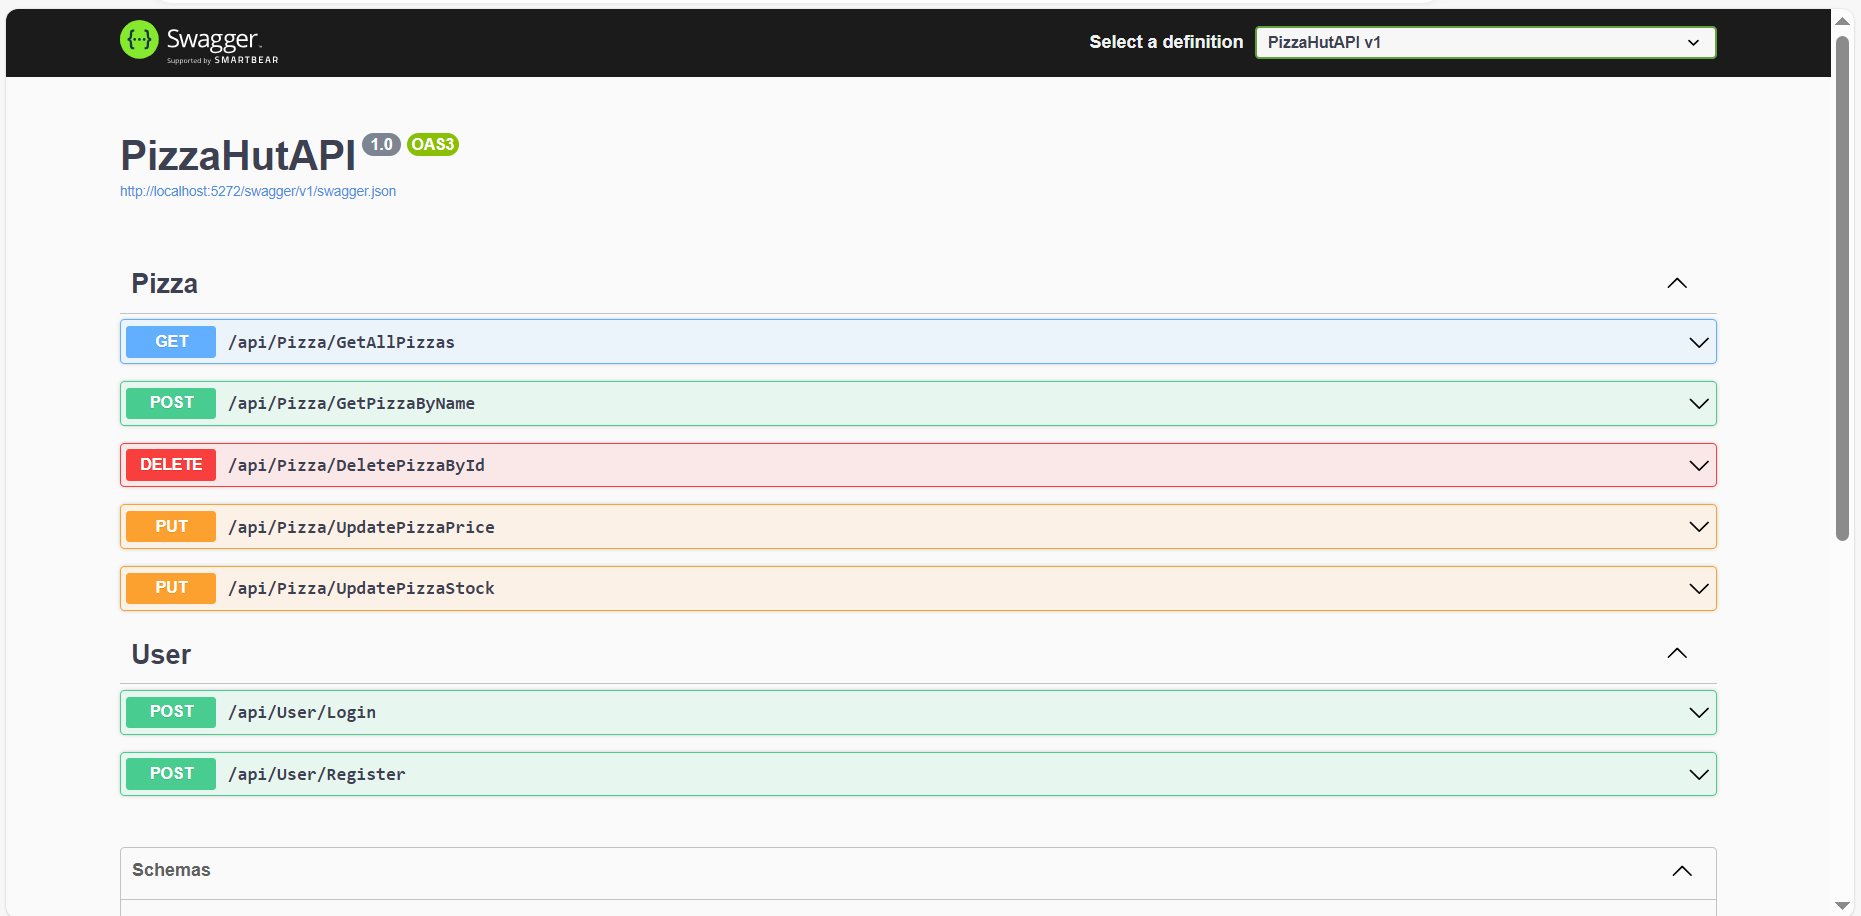
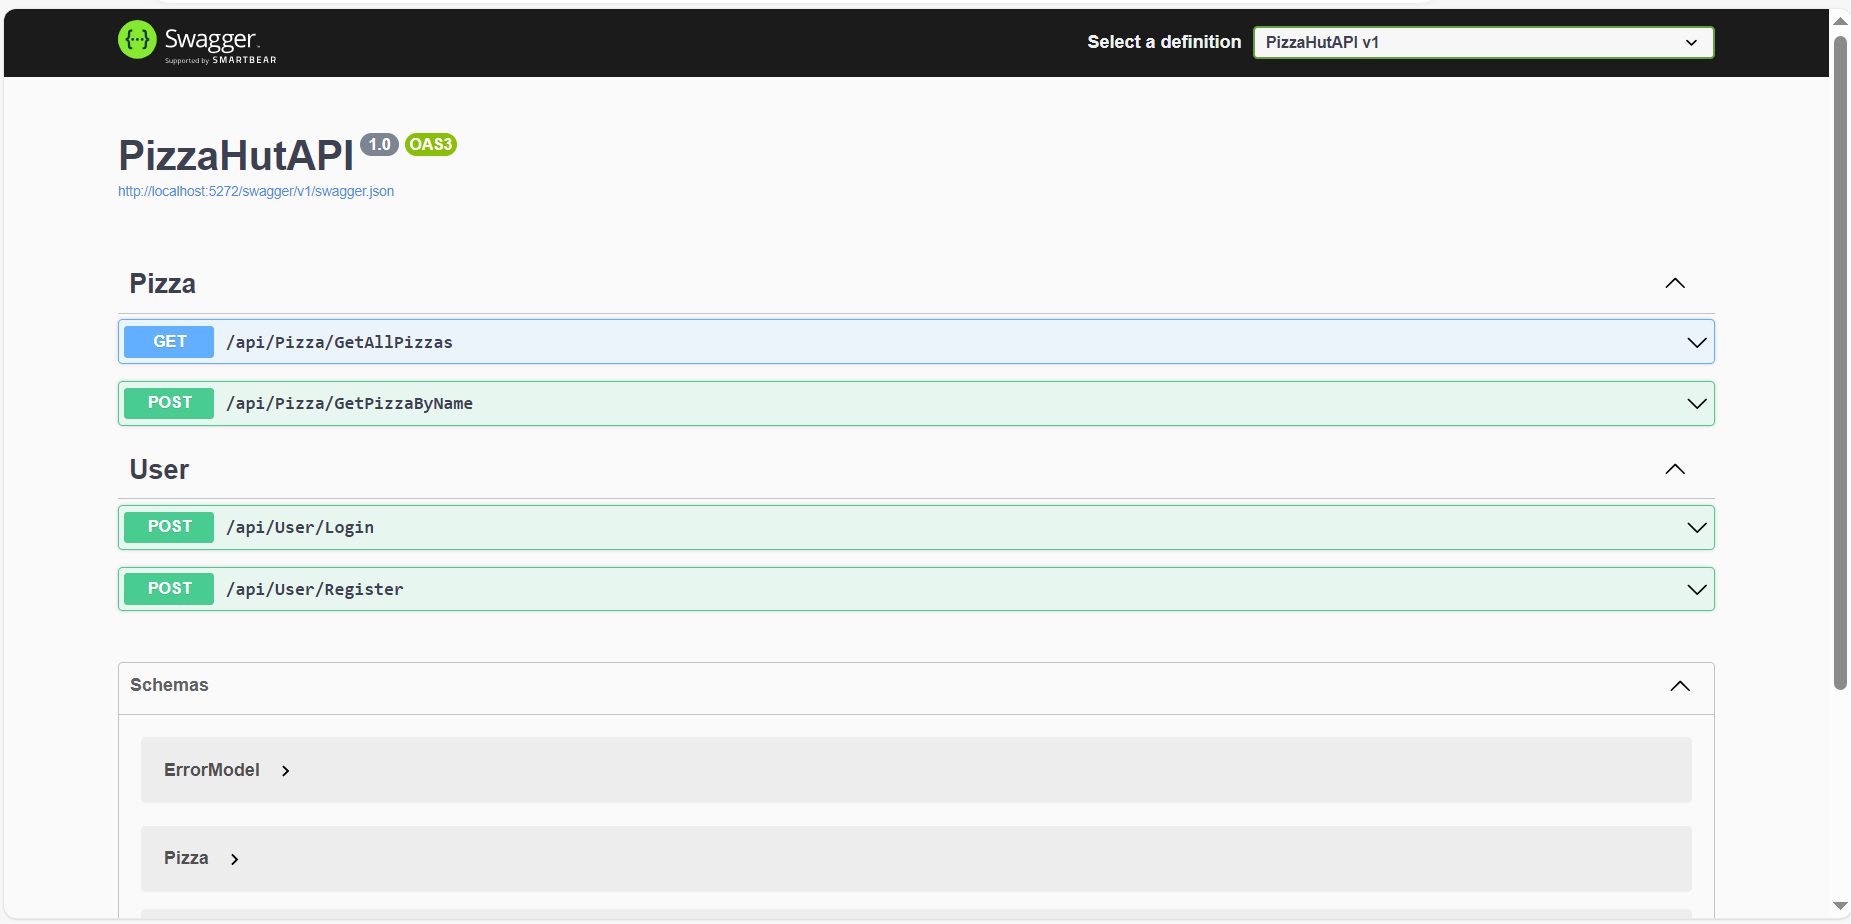
Day 25 PizzaHutAPI Errors Cleared

diff --git a/Day 25/PizzaHutAPISln/PizzaHutAPI/Controllers/PizzaController.cs b/Day 25/PizzaHutAPISln/PizzaHutAPI/Controllers/PizzaController.cs
@@ -51,61 +51,5 @@ namespace PizzaHutAPI.Controllers
             }
         }
 
-        [Route("DeletePizzaById")]
-        [HttpDelete]
-        [ProducesResponseType(typeof(IList<Pizza>), StatusCodes.Status200OK)]
-        [ProducesResponseType(typeof(ErrorModel), StatusCodes.Status404NotFound)]
-        public async Task<ActionResult<Pizza>> Delete([FromBody] int id)
-        {
-            try
-            {
-                var pizzas = await _PizzaHutServices.DeletePizzaById(id);
-                return Ok(pizzas);
-            }
-            catch (NoPizzaFoundException ex)
-            {
-                return NotFound(new ErrorModel(404, ex.Message));
-            }
-        }
-
-        [Route("UpdatePizzaPrice")]
-        [HttpPut]
-        [ProducesResponseType(typeof(IList<Pizza>), StatusCodes.Status200OK)]
-        [ProducesResponseType(typeof(ErrorModel), StatusCodes.Status404NotFound)]
-        public async Task<ActionResult<Pizza>> UpdatePizzaPrice([FromBody] UpdatePizzaPriceDTO updatePizzaPriceDTO)
-        {
-            try
-            {
-                var pizza = await _PizzaHutServices.GetPizzaById(updatePizzaPriceDTO.Id);
-                pizza.Price=updatePizzaPriceDTO.Price;
-                var UpdatedPizza = await _PizzaHutServices.UpdatePizza(pizza);
-                return Ok(UpdatedPizza);
-            }
-            catch (NoPizzaFoundException ex)
-            {
-                return NotFound(new ErrorModel(404, ex.Message));
-            }
-        }
-
-        [Route("UpdatePizzaStock")]
-        [HttpPut]
-        [ProducesResponseType(typeof(IList<Pizza>), StatusCodes.Status200OK)]
-        [ProducesResponseType(typeof(ErrorModel), StatusCodes.Status404NotFound)]
-        public async Task<ActionResult<Pizza>> UpdatePizzaStock([FromBody] UpdatePizzaStockDTO updatePizzStockDTO)
-        {
-            try
-            {
-                var pizza = await _PizzaHutServices.GetPizzaById(updatePizzStockDTO.Id);
-                pizza.Stocks = updatePizzStockDTO.Stocks;
-                var UpdatedPizza = await _PizzaHutServices.UpdatePizza(pizza);
-                return Ok(UpdatedPizza);
-            }
-            catch (NoPizzaFoundException ex)
-            {
-                return NotFound(new ErrorModel(404, ex.Message));
-            }
-        }
-
-
     }
 }
